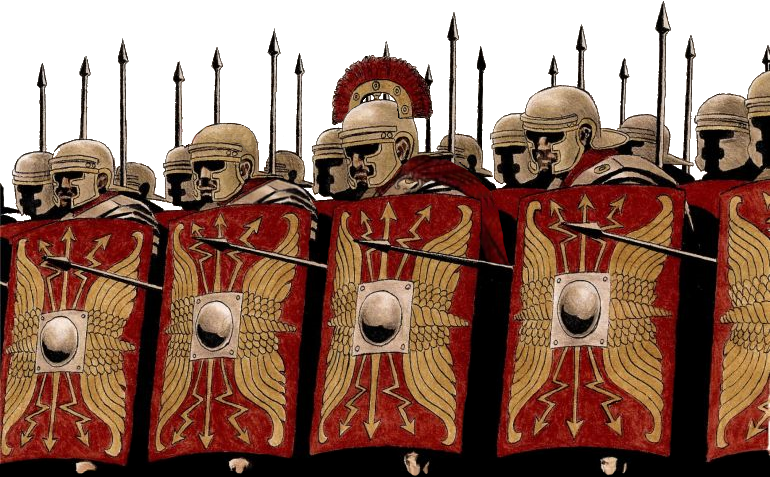
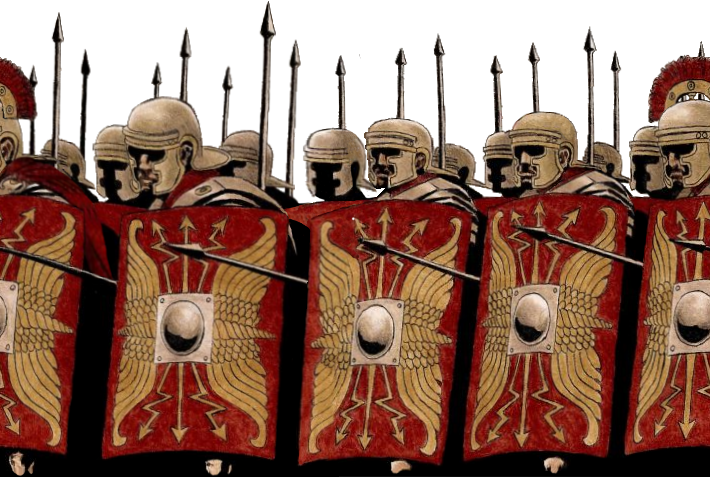
Created better page-break

diff --git a/src/app/views/home/home.component.html b/src/app/views/home/home.component.html
@@ -67,7 +67,7 @@
 </section>
 <!-- Page Break-->
 <section style="background: #fff">
-	<img src="/assets/img/formation.png" alt="Legion formation" width="100%" height="auto" style="transform: translateY(10px)">
+	<div style="height: 300px; background: 0 url('/assets/img/formation.png') repeat-x; background-size: auto 300px;"></div>
 </section>
 <!-- Contact -->
 <section id="contact" class="d-flex flex-column align-items-center justify-content-center fill">
